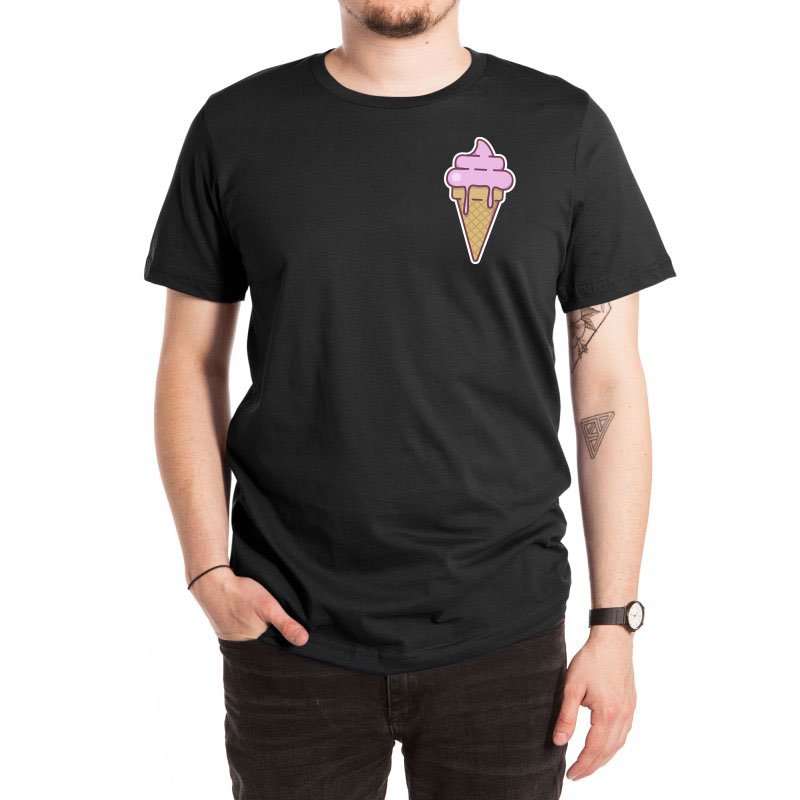
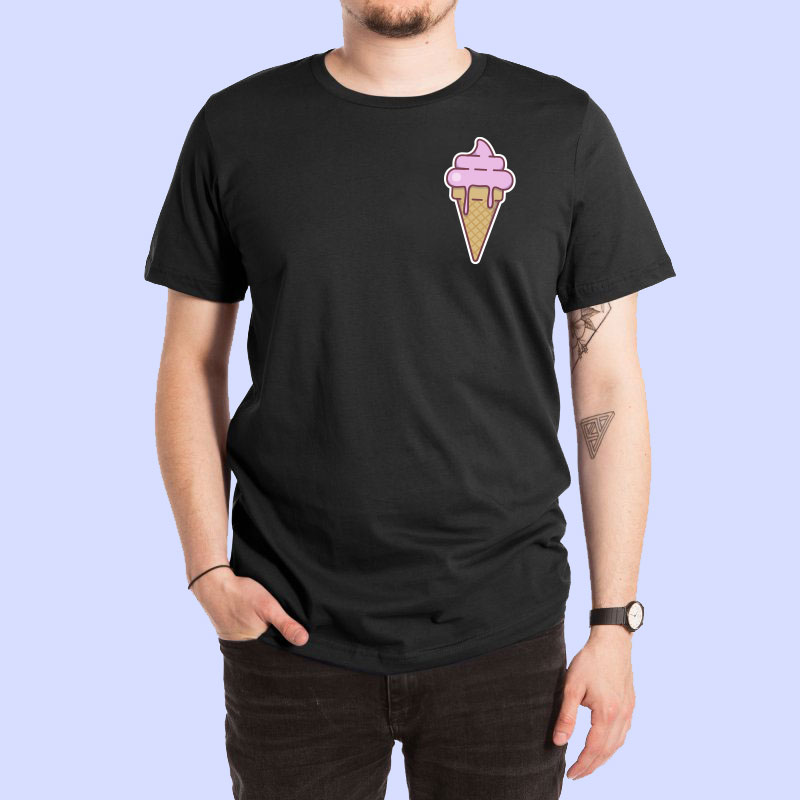
More styling Updates

diff --git a/server/public/styles.css b/server/public/styles.css
@@ -13,28 +13,39 @@ body{
 }
 
 .headerBackground{
-  background-color: #2c2c2c;
+  background-color: #25343D;
+}
+
+.header-container{
+  padding-left:35px;
+  padding-right:35px;
 }
 
 .productBackground{
-  background-color:#FFFFFF;
+  background-color:#f8f8f8;
   padding:25px;
+}
+
+
+
+.summaryBackground{
+  background-color:#f8f8f8;
+  padding:25px 50px;
 }
 header{
   padding: 30px 25px;
 }
 
-header .title{
-  color: #ffffff;
-  font-size: 25px;
-  font-weight:250;
+
+.removeItem{
+  color: #e63933;
   cursor:pointer;
+  font-family:teko;
+  font-size:1.5rem;
 }
 
-header .logo{
-  margin:0px 5px;
-  transition:all ease .15s;
-  font-weight:600;
+header .header-logo{
+  cursor:pointer;
 }
 
 .productImageDiv{
@@ -80,6 +91,11 @@ header .logo{
 .descriptionBackground{
   border-radius:5px;
   position:relative;
+  display:flex;
+  align-items:center;
+  height:700px;
+  box-shadow: 0px 0px 7px #d5d5d5;
+  width:100%;
 }
 
 .descriptionProductPrice{
@@ -134,19 +150,10 @@ outline:none;
   transition:ease all .2s;
 }
 
-
 .productCard{
-  height:100%;
-  box-shadow: 0px 0px 7px #d5d5d5;
-  border: none;
-  transition:all ease .1s;
   cursor:pointer;
 }
 
-.productCard:hover{
-  box-shadow: 0px 5px 10px #c5c5c5;
-  transform:translate(0px,-5px);
-}
 
 .productDescription{
   padding:10px;
@@ -168,6 +175,7 @@ outline:none;
 .price{
   color:#999999;
   font-weight:500;
+  margin-bottom:0px;
 }
 
 .descriptionImage{
@@ -179,24 +187,20 @@ outline:none;
   height:350px;
 }
 
-.descriptionBackground{
-  box-shadow: 0px 0px 7px #d5d5d5;
-  width:85%;
-  position:relative;
-}
-
 .backToCatalog{
-  font-size:1.25rem;
+  font-size:1.5rem;
   cursor:pointer;
   transition:all ease .15s;
-  display:inline;
   color:#acacac;
   transition:ease all .35s;
   font-family:teko;
 }
 
-.back{
+.backToCatalog:hover{
   color:#E63933;
+}
+
+.back{
   opacity:.65;
   position:absolute;
   top:25px;
@@ -214,6 +218,15 @@ outline:none;
   z-index:25;
 }
 
+
+.cartItemSummaryName{
+  font-family:teko;
+  font-size:3rem;
+}
+.descriptionContainer{
+  padding:25px;
+  font-family:rubik;
+}
 .cartItemSummaryImage{
   width:100%;
   object-fit:contain;
@@ -226,7 +239,7 @@ outline:none;
 
 .cartItemSummaryImageContainer{
   object-fit:contain;
-  min-height:300px;
+  background-color:#D8DEFF;
 }
 
 .cartItemSummaryDiv{
@@ -235,10 +248,17 @@ outline:none;
 
 .cartItemDiv{
   cursor:pointer;
+  font-family:rubik;
+  font-size:1.25rem;
+}
+
+.totalPriceHeader{
+  display:inline;
+  font-family:rubik;
 }
 
 .totalPrice{
-  display:inline
+  color:#2f969a
 }
 
 .checkout-button{
@@ -292,7 +312,6 @@ display:inline-block
   padding:2.5% 5%;
   height:400px;
 }
-
 
 .hidden{
   display:none;

diff --git a/client/components/cart-summary.jsx b/client/components/cart-summary.jsx
@@ -21,17 +21,19 @@ export default class CartSummary extends React.Component {
       checkoutMessage = <h3 className="text-muted mt-5">There are no items in your cart</h3>;
     } else {
       checkoutMessage = null;
-      checkoutSummary = <button onClick={() => this.props.setViewFunction('checkout', {})} className="checkout-button btn btn-primary">Checkout</button>;
+      checkoutSummary = <button onClick={() => this.props.setViewFunction('checkout', {})} className="addToCartButton">CHECKOUT</button>;
     }
 
     return (
-      <div>
-        <div className="backToCatalog mb-3 text-muted" onClick={() => this.props.setViewFunction('catalog', {})}><i className="fas fa-angle-left"></i> BACK</div>
-        <h5 className="summaryTitle mb-3">Cart</h5>
+      <div className="summaryBackground">
+        <div className="backToCatalog mb-3 text-muted" onClick={() => this.props.setViewFunction('catalog', {})}><i className="fas fa-angle-left"></i> CONTINUE SHOPPING</div>
         {checkoutMessage}
         {cartList}
-        <div className="summaryFooter mt-5 mb-5">
-          <h5 className="totalPrice">Total: ${((totalPrice) / 100).toFixed(2)}</h5>
+        <div className="summaryFooter mt-3 mb-5">
+          <div>
+            <strong><h4 className="totalPriceHeader">Total: <span className="totalPrice">${((totalPrice) / 100).toFixed(2)}</span></h4></strong>
+            <div className="mb-0 descriptionDivider"></div>
+          </div>
           {checkoutSummary}
         </div>
       </div>

diff --git a/client/components/cart-summary-item.jsx b/client/components/cart-summary-item.jsx
@@ -10,17 +10,19 @@ export default class CartSummaryItem extends React.Component {
     const itemPrice = ((item.price) / 100).toFixed(2);
 
     return (
-      <div className="cartItemSummaryDiv bg-white container mb-3 p-5">
-        <div className="row align-items-center d-flex">
-          <div className="col-md-5">
+      <div className="cartItemSummaryDiv bg-white container p-5">
+        <div className="row w-100 align-items-center d-flex">
+          <div className="col-md-7">
             <div className="cartItemSummaryImageContainer d-flex align-items-center justify-content-center">
               <img src={itemImage} className="cartItemSummaryImage" />
             </div>
           </div>
-          <div className="col-md-7">
+          <div className="col-md-5 descriptionContainer">
             <h4 className="cartItemSummaryName"><strong>{itemName}</strong></h4>
+            <div className="descriptionDivider"></div>
             <h5 className="text-muted">${itemPrice}</h5>
             <p className="cartItemSummaryShortDescription">{itemShortDescription}</p>
+            <h6 className="removeItem" onClick={() => this.props.setViewFunction('checkout', {})}><i className="far fa-times-circle"></i> REMOVE</h6>
           </div>
         </div>
       </div>

diff --git a/client/components/header.jsx b/client/components/header.jsx
@@ -1,15 +1,15 @@
 import React from 'react';
 
 export default class Header extends React.Component {
-
   render() {
+
     return (
       <div className="headerBackground">
-        <header className="container">
-          <h1 onClick={() => this.props.setViewFunction('catalog', {})} className="title d-inline">Top-Notch Tees 👌</h1>
-          <div onClick={() => this.props.setViewFunction('cart', {})} className="cartItemDiv text-white float-right">
-            <div className="cartItemCount d-inline ">{this.props.cartItemCount} Items </div>
-            <i className="fa fa-shopping-cart d-inline"></i>
+        <header className="container header-container d-flex align-items-center justify-content-between">
+          <img onClick={() => this.props.setViewFunction('catalog', {})} className="header-logo d-inline" src="images/top-notch-header-logo.png" />
+          <div id="checkout" className="cartItemDiv text-white float-right">
+            <div onClick={() => this.props.setViewFunction('cart', {})} className="cartItemCount d-inline ">{this.props.cartItemCount} Items </div>
+            <i id="shoppingCart" className="fa fa-shopping-cart d-inline"></i>
           </div>
         </header>
       </div>

diff --git a/client/components/product-details.jsx b/client/components/product-details.jsx
@@ -39,13 +39,13 @@ export default class ProductDetails extends React.Component {
         <div className="descriptionContainer pt-5 justify-content-center">
           <div className="descriptionBackground d-flex bg-white p-5 container">
             <div className="backToCatalog" onClick={() => this.props.setViewFunction('catalog', {})}><i className="far fa-times-circle back"></i></div>
-            <div className="row">
-              <div className="col-md-6">
+            <div className="row w-100">
+              <div className="col-md-7">
                 <div className="descriptionImageBox">
                   <img className="descriptionImage" alt="An image of the product" title="product image" src={product.imageDetail} />
                 </div>
               </div>
-              <div className="productDetails col-md-6">
+              <div className="productDetails col-md-5">
                 <div>
                   <h2 className="descriptionName">{product.name}</h2>
                   <div className="descriptionDivider"></div>

diff --git a/client/components/product-list-item.jsx b/client/components/product-list-item.jsx
@@ -7,7 +7,7 @@ export default function ProductListItem(props) {
   const productPrice = ((product.price) / 100).toFixed(2);
   const productImageDetail = product.imageDetail;
   return (
-    <div onClick={() => props.setViewFunction('details', { productId: props.product.productId })} className="col-md-4 mb-5">
+    <div onClick={() => props.setViewFunction('details', { productId: props.product.productId })} className="col-md-4 mb-5 productCard">
 
       <div className="productImageDiv">
         <img className="productImage" alt="An image of a product" title="product Image" src={productImage}></img>
@@ -16,7 +16,7 @@ export default function ProductListItem(props) {
       <div className="productDescription">
         <h5 className="productTitle"><strong>{productName}</strong></h5>
         <div className="productDivider text-align-center"></div>
-        <p><span className="price">${productPrice}</span></p>
+        <p className="price">${productPrice}</p>
 
       </div>
     </div>
